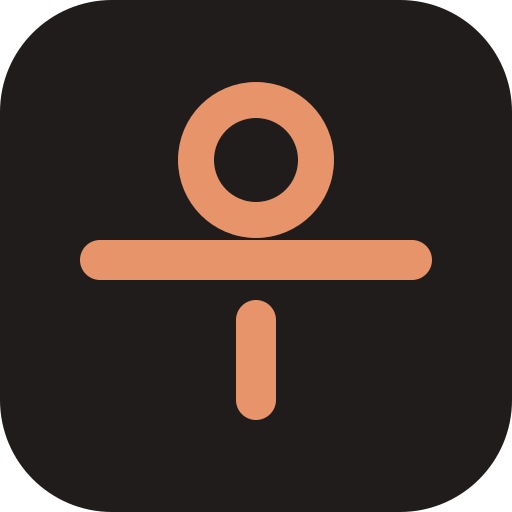
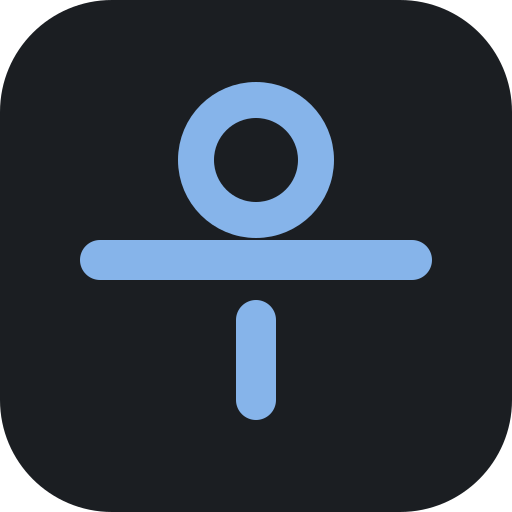
feat(ui): Storm palette (cool graphite, steel blue accent) (#32)
Replaces the Ember terracotta palette chosen in the palette review.
Tokens, hard-coded rgba literals, PWA icons, manifest and themeColor
updated; decisions.md and STATUS.md record the change.

Changed region(s): [[0.1562, 0.1562, 0.8438, 0.8438]]

diff --git a/app/globals.css b/app/globals.css
@@ -1,26 +1,26 @@
 :root {
-  /* Ember: warm graphite, dark but not black. Validated in the design review (docs/decisions.md, 2026-11-04). */
-  --background: #1f1c1b;
-  --bg-radial: radial-gradient(1200px 500px at 50% -50px, rgba(232, 148, 106, 0.07) 0%, rgba(31, 28, 27, 0) 100%),
-               radial-gradient(800px 400px at 100% 100%, rgba(232, 148, 106, 0.04) 0%, rgba(31, 28, 27, 0) 100%);
-  --surface: rgba(41, 37, 36, 0.78);
-  --surface-solid: #292524;
-  --surface-secondary: rgba(51, 46, 44, 0.65);
-  --surface-modal: #2b2624;
-  --text: #f3eeea;
-  --secondary: #b3a8a1;
-  --tint: #e8946a;
-  --tint-hover: #f0a984;
-  --on-tint: #1f120a;
-  --tint-subtle: rgba(232, 148, 106, 0.14);
-  --success: #8fd19e;
-  --success-subtle: rgba(143, 209, 158, 0.14);
-  --warning: #efc56f;
-  --warning-subtle: rgba(239, 197, 111, 0.15);
-  --danger: #f08a8a;
-  --danger-subtle: rgba(240, 138, 138, 0.15);
-  --separator: #3a3431;
-  --card-border: #463f3b;
+  /* Storm: cool graphite with a steel blue accent. Chosen in the palette review (docs/decisions.md, 2026-11-05). */
+  --background: #1b1e22;
+  --bg-radial: radial-gradient(1200px 500px at 50% -50px, rgba(134, 180, 234, 0.07) 0%, rgba(27, 30, 34, 0) 100%),
+               radial-gradient(800px 400px at 100% 100%, rgba(134, 180, 234, 0.04) 0%, rgba(27, 30, 34, 0) 100%);
+  --surface: rgba(37, 42, 48, 0.78);
+  --surface-solid: #252a30;
+  --surface-secondary: rgba(47, 53, 60, 0.65);
+  --surface-modal: #282e34;
+  --text: #eaedf0;
+  --secondary: #a1a9b2;
+  --tint: #86b4ea;
+  --tint-hover: #9bc2ef;
+  --on-tint: #0b1b30;
+  --tint-subtle: rgba(134, 180, 234, 0.14);
+  --success: #8fd4a3;
+  --success-subtle: rgba(143, 212, 163, 0.14);
+  --warning: #ebc673;
+  --warning-subtle: rgba(235, 198, 115, 0.15);
+  --danger: #ef8f8f;
+  --danger-subtle: rgba(239, 143, 143, 0.15);
+  --separator: #353c45;
+  --card-border: #434b56;
   --card-shadow: none;
   --glass-blur: blur(28px) saturate(160%);
   /* Apple spring motion: iOS ease-out for movement, small overshoot only on controls */
@@ -359,7 +359,7 @@ h3 {
   display: flex;
   align-items: stretch;
   padding: 0.25rem;
-  background: rgba(41, 37, 36, 0.72);
+  background: rgba(37, 42, 48, 0.72);
   backdrop-filter: blur(28px) saturate(160%);
   -webkit-backdrop-filter: blur(28px) saturate(160%);
   border: 1px solid var(--card-border);
@@ -411,7 +411,7 @@ h3 {
   position: fixed;
   inset: 0;
   z-index: 840;
-  background: rgba(15, 13, 12, 0.5);
+  background: rgba(10, 12, 15, 0.5);
   backdrop-filter: blur(8px);
   -webkit-backdrop-filter: blur(8px);
   animation: modalFadeIn var(--dur) var(--ease) both;
@@ -571,52 +571,52 @@ main {
 }
 
 .badge-info {
-  background: rgba(232, 148, 106, 0.15);
-  color: #e8946a;
-  border: 1px solid rgba(232, 148, 106, 0.28);
+  background: rgba(134, 180, 234, 0.15);
+  color: #86b4ea;
+  border: 1px solid rgba(134, 180, 234, 0.28);
 }
 
 .badge-warning {
-  background: rgba(239, 197, 111, 0.15);
-  color: #efc56f;
-  border: 1px solid rgba(239, 197, 111, 0.28);
+  background: rgba(235, 198, 115, 0.15);
+  color: #ebc673;
+  border: 1px solid rgba(235, 198, 115, 0.28);
 }
 
 .badge-danger {
-  background: rgba(240, 138, 138, 0.15);
-  color: #f08a8a;
-  border: 1px solid rgba(240, 138, 138, 0.28);
+  background: rgba(239, 143, 143, 0.15);
+  color: #ef8f8f;
+  border: 1px solid rgba(239, 143, 143, 0.28);
 }
 
 .badge-rest {
-  background: rgba(179, 168, 161, 0.12);
+  background: rgba(161, 169, 178, 0.12);
   color: var(--secondary);
-  border: 1px solid rgba(179, 168, 161, 0.2);
+  border: 1px solid rgba(161, 169, 178, 0.2);
 }
 
 .badge-success {
-  background: rgba(143, 209, 158, 0.15);
-  color: #8fd19e;
-  border: 1px solid rgba(143, 209, 158, 0.28);
+  background: rgba(143, 212, 163, 0.15);
+  color: #8fd4a3;
+  border: 1px solid rgba(143, 212, 163, 0.28);
 }
 
 .badge-streak {
-  background: rgba(239, 197, 111, 0.15);
-  color: #efc56f;
-  border: 1px solid rgba(239, 197, 111, 0.28);
+  background: rgba(235, 198, 115, 0.15);
+  color: #ebc673;
+  border: 1px solid rgba(235, 198, 115, 0.28);
   font-weight: 800;
 }
 
 .badge-carried {
-  background: rgba(222, 164, 120, 0.15);
-  color: #dea478;
-  border: 1px solid rgba(222, 164, 120, 0.28);
+  background: rgba(168, 191, 224, 0.15);
+  color: #a8bfe0;
+  border: 1px solid rgba(168, 191, 224, 0.28);
 }
 
 .badge-reminder {
-  background: rgba(232, 148, 106, 0.12);
-  color: #e8946a;
-  border: 1px solid rgba(232, 148, 106, 0.22);
+  background: rgba(134, 180, 234, 0.12);
+  color: #86b4ea;
+  border: 1px solid rgba(134, 180, 234, 0.22);
   font-size: 0.75rem;
 }
 
@@ -797,7 +797,7 @@ main {
   margin-top: 1rem;
   padding: 1.1rem 1.35rem;
   background: var(--tint-subtle);
-  border: 1px solid rgba(232, 148, 106, 0.2);
+  border: 1px solid rgba(134, 180, 234, 0.2);
   border-radius: 1rem;
 }
 
@@ -927,7 +927,7 @@ textarea {
   width: 100%;
   padding: 0.65rem 0.95rem;
   color: var(--text);
-  background: rgba(41, 37, 36, 0.85);
+  background: rgba(37, 42, 48, 0.85);
   border: 1px solid rgba(255, 255, 255, 0.12);
   border-radius: 0.85rem;
   transition: border-color var(--dur) var(--ease), box-shadow var(--dur) var(--ease);
@@ -1430,8 +1430,8 @@ textarea:focus-visible {
 }
 
 .badge-streak {
-  background: rgba(240, 138, 138, 0.12);
-  color: #f08a8a;
+  background: rgba(239, 143, 143, 0.12);
+  color: #ef8f8f;
   font-weight: 700;
 }
 
@@ -1504,7 +1504,7 @@ textarea:focus-visible {
   position: fixed;
   inset: 0;
   z-index: 9999;
-  background: rgba(15, 13, 12, 0.6);
+  background: rgba(10, 12, 15, 0.6);
   backdrop-filter: blur(28px) saturate(180%);
   -webkit-backdrop-filter: blur(28px) saturate(180%);
   display: flex;
@@ -1526,7 +1526,7 @@ textarea:focus-visible {
 .modal-card {
   width: 100%;
   max-width: 34rem;
-  background: #2b2624;
+  background: #282e34;
   border: 1px solid rgba(255, 255, 255, 0.14);
   border-radius: 1.25rem;
   box-shadow: none;
@@ -1771,7 +1771,7 @@ textarea:focus-visible {
   align-items: center;
   justify-content: space-between;
   gap: 0.75rem;
-  background: rgba(41, 37, 36, 0.95);
+  background: rgba(37, 42, 48, 0.95);
   backdrop-filter: blur(20px);
   -webkit-backdrop-filter: blur(20px);
   border: 1px solid rgba(255, 255, 255, 0.14);
@@ -1810,7 +1810,7 @@ textarea:focus-visible {
 .toast-action-btn {
   background: var(--tint-subtle);
   color: var(--tint);
-  border: 1px solid rgba(232, 148, 106, 0.3);
+  border: 1px solid rgba(134, 180, 234, 0.3);
   font-size: 0.8125rem;
   font-weight: 600;
   border-radius: 0.5rem;
@@ -1822,7 +1822,7 @@ textarea:focus-visible {
 }
 
 .toast-action-btn:hover {
-  background: rgba(232, 148, 106, 0.22);
+  background: rgba(134, 180, 234, 0.22);
 }
 
 .toast-close-btn {
@@ -1907,8 +1907,8 @@ textarea:focus-visible {
 @media (prefers-reduced-transparency: reduce) {
   :root {
     --surface: var(--surface-solid);
-    --surface-secondary: #332e2c;
-    --surface-modal: #2b2624;
+    --surface-secondary: #2f353c;
+    --surface-modal: #282e34;
     --glass-blur: none;
   }
 

diff --git a/app/food/food-client.tsx b/app/food/food-client.tsx
@@ -686,8 +686,8 @@ export function FoodClient({
                         marginLeft: "0.5rem",
                         background:
                           weightAnalytics.trend === "gaining"
-                            ? "rgba(143, 209, 158, 0.15)"
-                            : "rgba(239, 197, 111, 0.15)",
+                            ? "rgba(143, 212, 163, 0.15)"
+                            : "rgba(235, 198, 115, 0.15)",
                         color:
                           weightAnalytics.trend === "gaining" ? "var(--success)" : "var(--warning)",
                       }}
@@ -752,7 +752,7 @@ export function FoodClient({
                             <span
                               className="badge"
                               style={{
-                                background: "rgba(232, 148, 106, 0.15)",
+                                background: "rgba(134, 180, 234, 0.15)",
                                 color: "var(--tint)",
                                 fontSize: "0.75rem",
                               }}
@@ -973,7 +973,7 @@ export function FoodClient({
             </div>
             <span
               className="badge"
-              style={{ background: "rgba(143, 209, 158, 0.15)", color: "var(--success)", display: "inline-flex", alignItems: "center", gap: "0.3rem" }}
+              style={{ background: "rgba(143, 212, 163, 0.15)", color: "var(--success)", display: "inline-flex", alignItems: "center", gap: "0.3rem" }}
             >
               <LockIcon size={12} /> Restricted: Food &amp; Macros Only
             </span>
@@ -1056,9 +1056,9 @@ export function FoodClient({
                         fontSize: "0.78rem",
                         padding: "0.3rem 0.6rem",
                         borderRadius: "0.4rem",
-                        background: "rgba(232, 148, 106, 0.12)",
+                        background: "rgba(134, 180, 234, 0.12)",
                         color: "var(--tint)",
-                        border: "1px solid rgba(232, 148, 106, 0.25)",
+                        border: "1px solid rgba(134, 180, 234, 0.25)",
                       }}
                     >
                       {msg.toolExecuted.name === "log_meal" && (
@@ -1141,7 +1141,7 @@ export function FoodClient({
             </div>
             <span
               className="badge"
-              style={{ background: "rgba(143, 209, 158, 0.15)", color: "var(--success)" }}
+              style={{ background: "rgba(143, 212, 163, 0.15)", color: "var(--success)" }}
             >
               Quarantined Scope: Food Only
             </span>
@@ -1152,8 +1152,8 @@ export function FoodClient({
               marginTop: "0.75rem",
               padding: "0.75rem",
               borderRadius: "0.5rem",
-              background: "rgba(232, 148, 106, 0.08)",
-              border: "1px solid rgba(232, 148, 106, 0.2)",
+              background: "rgba(134, 180, 234, 0.08)",
+              border: "1px solid rgba(134, 180, 234, 0.2)",
               fontSize: "0.85rem",
               lineHeight: "1.4",
             }}
@@ -1174,8 +1174,8 @@ export function FoodClient({
                 marginTop: "1rem",
                 padding: "1rem",
                 borderRadius: "0.65rem",
-                background: "rgba(143, 209, 158, 0.1)",
-                border: "1px solid rgba(143, 209, 158, 0.3)",
+                background: "rgba(143, 212, 163, 0.1)",
+                border: "1px solid rgba(143, 212, 163, 0.3)",
               }}
             >
               <div

diff --git a/app/layout.tsx b/app/layout.tsx
@@ -19,7 +19,7 @@ export const viewport: Viewport = {
   initialScale: 1,
   viewportFit: "cover",
   colorScheme: "dark",
-  themeColor: "#1f1c1b",
+  themeColor: "#1b1e22",
 };
 
 export default function RootLayout({ children }: Readonly<{ children: React.ReactNode }>) {

diff --git a/.agents/skills/apple-design/references/project-design-system.md b/.agents/skills/apple-design/references/project-design-system.md
@@ -1,4 +1,4 @@
-# Life Tracker design system (Ember)
+# Life Tracker design system (Storm)
 
 Project-specific layer on top of the HIG rules. Chosen by the user on 2026-11-04 from the design options artifact ("Life Tracker Design Options"). Implemented in `app/globals.css` and `app/components/navigation.tsx`. When this file and a generic HIG reference disagree, this file wins for Life Tracker, and the deviation is listed below on purpose.
 
@@ -6,7 +6,7 @@ Project-specific layer on top of the HIG rules. Chosen by the user on 2026-11-04
 
 | Area | Choice |
 |---|---|
-| Palette | **Ember**: dark, warm graphite with a terracotta accent. Dark only. |
+| Palette | **Storm**: dark, cool graphite with a steel blue accent. Dark only. |
 | Font | **SF Pro** through the system stack (`-apple-system, BlinkMacSystemFont, "SF Pro Text", system-ui`). No web font files. Tabular figures for every number (weights, money, macros). |
 | Motion | **Apple spring**: 420 ms, `cubic-bezier(0.32, 0.72, 0, 1)`, small overshoot on controls only. |
 | Scrollbars | **Never visible**, on any element (`scrollbar-width: none` and `::-webkit-scrollbar { display: none }`). Content stays scrollable. |
@@ -17,16 +17,16 @@ Project-specific layer on top of the HIG rules. Chosen by the user on 2026-11-04
 
 | Token | Value | Use |
 |---|---|---|
-| `--background` | `#1f1c1b` | page |
-| `--surface-solid` | `#292524` | cards (translucent `--surface` on top of blur) |
-| `--surface-secondary` | `#332e2c` at 65% | raised controls, inputs |
-| `--card-border` | `#463f3b` | card and control borders |
-| `--separator` | `#3a3431` | hairlines |
-| `--text` | `#f3eeea` | primary text (contrast above 12:1 on `--background`) |
-| `--secondary` | `#b3a8a1` | secondary text (above 7:1) |
-| `--tint` / `--tint-hover` | `#e8946a` / `#f0a984` | the single accent: primary buttons, active tab, links |
-| `--on-tint` | `#1f120a` | text and icons on the accent (never white) |
-| `--success` `--warning` `--danger` | `#8fd19e` `#efc56f` `#f08a8a` | status, always paired with an icon or text, never color alone |
+| `--background` | `#1b1e22` | page |
+| `--surface-solid` | `#252a30` | cards (translucent `--surface` on top of blur) |
+| `--surface-secondary` | `#2f353c` at 65% | raised controls, inputs |
+| `--card-border` | `#434b56` | card and control borders |
+| `--separator` | `#353c45` | hairlines |
+| `--text` | `#eaedf0` | primary text (contrast above 12:1 on `--background`) |
+| `--secondary` | `#a1a9b2` | secondary text (7:1 on `--background`, 6:1 on cards) |
+| `--tint` / `--tint-hover` | `#86b4ea` / `#9bc2ef` | the single accent: primary buttons, active tab, links |
+| `--on-tint` | `#0b1b30` | text and icons on the accent (never white) |
+| `--success` `--warning` `--danger` | `#8fd4a3` `#ebc673` `#ef8f8f` | status, always paired with an icon or text, never color alone |
 | `--dur` `--ease` `--pop` `--press` | 420 ms, spring ease, overshoot ease, 0.96 | all motion |
 
 Rules:
@@ -37,7 +37,7 @@ Rules:
 
 ## Deliberate deviations from the generic HIG references
 
-- **Dark only, no light mode and no in-app switch.** The generic rule says to follow the system appearance. The user chose a single moody dark identity; the viewport declares `colorScheme: "dark"`. Contrast must therefore be checked against Ember only. If a light theme is ever added, it is a new decision in `docs/decisions.md`.
+- **Dark only, no light mode and no in-app switch.** The generic rule says to follow the system appearance. The user chose a single moody dark identity; the viewport declares `colorScheme: "dark"`. Contrast must therefore be checked against Storm only. If a light theme is ever added, it is a new decision in `docs/decisions.md`.
 - **Liquid Glass is approximated** with `backdrop-filter: blur(28px) saturate(160%)` on the sidebar, tab bar, popover and modals only. Cards use a lighter translucent surface; do not add glass to list rows.
 - **SF Symbols cannot be shipped on the web.** Icons are inline stroke SVGs (1.75 px stroke, round caps) in the style of SF Symbols. Do not use emoji as UI icons. Emoji that the user types into data (for example a category name) are content and stay as they are.
 

diff --git a/docs/decisions.md b/docs/decisions.md
@@ -113,6 +113,7 @@ Newest at the bottom of each section. Do not re-litigate a decision without the 
 - **2026-11-04 — Ember design system.** The user validated the design options artifact and chose palette **Ember** (dark, warm graphite, terracotta accent `#e8946a`), font **SF Pro** via the system stack, motion **Apple spring** (420 ms, `cubic-bezier(0.32, 0.72, 0, 1)`), and **no visible scrollbars anywhere**. Dark only (a deliberate deviation from the HIG "follow system appearance" rule). Navigation: fixed sidebar on desktop, floating tab bar with 4 modules plus More on phones. Supersedes the earlier "moody velvet" colors and the top segmented navigation. Tokens and rules live in `.agents/skills/apple-design/references/project-design-system.md`.
 - **2026-11-04 — Native iOS PWA Standalone & Gesture Polish.** Added PWA web manifest (`manifest.json`) and iOS standalone meta tags (`apple-mobile-web-app-capable`). Eliminated rubber-band overscroll color mismatch via `overscroll-behavior: none` and `min-height: 100dvh`. Prevented unwanted swipe-back navigation via `overscroll-behavior-x: none`. Removed 300ms mobile tap delay with `touch-action: manipulation` and disabled blue tap highlight flashes. Removed avatar letter circle from the mobile More menu. Upgraded the Service Worker (`public/sw.js`) with Cache-First asset caching so the shell and UI load instantly offline with zero latency, while preserving live network access for API data and Food AI. Merged via PR #29 and PR #30.
 - **2026-11-05 — Service worker never caches HTML.** Supersedes the Cache-First shell decision of PR #29/#30: pages contain personal data and must stay live, so the SW (`life-tracker-v2`) caches only content-hashed `/_next/static/*` files and deletes older caches on activate. CSRF checks for JSON API routes use `isSameOrigin` (Origin host vs `x-forwarded-host`/`host`) instead of comparing with `request.url`, which is `0.0.0.0` inside the container.
+- **2026-11-05 — Storm palette.** Supersedes the Ember palette (terracotta accent) after the palette review: dark, cool graphite (`#1b1e22` background, `#252a30` cards) with a steel blue accent `#86b4ea` and `#0b1b30` on-accent text. Status colors: ok `#8fd4a3`, warn `#ebc673`, danger `#ef8f8f`. Secondary text `#a1a9b2` is 7:1 on the background and 6:1 on cards. SF Pro, Apple spring motion, no visible scrollbars and dark-only are unchanged. PWA icons, `manifest.json` and `themeColor` were regenerated to match.
 
 ## Open
 

diff --git a/docs/STATUS.md b/docs/STATUS.md
@@ -1,6 +1,6 @@
 # Status
 
-_Last updated: 2026-11-05 by Claude (Full app verification & PWA hardening)_
+_Last updated: 2026-11-05 by Claude (Storm palette)_
 
 ## Phase
 
@@ -11,6 +11,7 @@ Responsive UI/UX Overhaul (Unslop + UI-UX-Pro-Max Bento Architecture + Apple HIG
 Experience Elevation (Moody Minimalist Theme Option B, Blurred Modal Popups & Bottom Sheets, Command Menu ⌘K, Undo Toasts, Tabular Numbers, and 20 Precision Details) is 100% complete and verified.
 Mobile-First Elevation (Native iOS Frosted Bottom Tab Bar, 54px Compact Header, Decluttered Mobile Feed, Smoked Glass Depth & Specular Highlights, Glowing Jewel Accents, Smoked Glass Sign-In) is 100% complete and verified.
 Ember Design System & Navigation (dark warm graphite palette, SF Pro font, spring physics, desktop sidebar & mobile floating tab bar) is 100% complete and merged in `main` (PR #28).
+Storm palette (cool graphite, steel blue accent; replaces Ember's terracotta, see `docs/decisions.md` 2026-11-05) is applied on `feat/storm-palette`, awaiting the user's manual test and merge.
 Clean Flat Polish & Centered Popups is 100% complete and merged in `main` (PR #27).
 Native iOS PWA Standalone & Gesture Polish (Web Manifest, fullscreen iOS Home Screen mode, rubber-band overscroll elimination, tap delay removal, avatar circle removal, and Service Worker Cache-First shell loading) is 100% complete and merged in `main` (PR #29, PR #30).
 
@@ -111,7 +112,7 @@ Iteration 9: Final Security Hardening, Production Configuration & Azure Cloud De
 
 ## Next
 
-1. Review and merge the Ember design PR (`feat/ember-design-system`).
+1. The user tests the app with the Storm palette, then reviews and merges the Storm PR (`feat/storm-palette`).
 2. Iteration 9 (Final Security Hardening, Production Configuration & Azure Cloud Deployment) per `docs/roadmap.md`, only when the user starts it. It needs explicit OK before any Azure resource is created.
 3. Maintain local-only verification until then (no Azure deployments).
 
